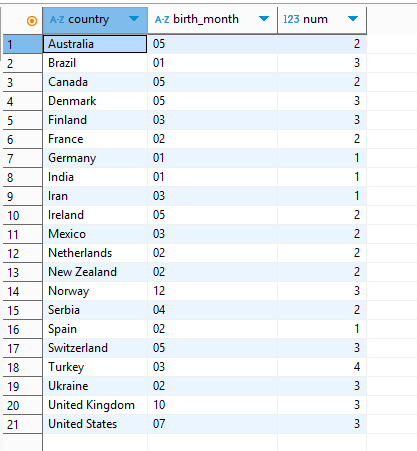
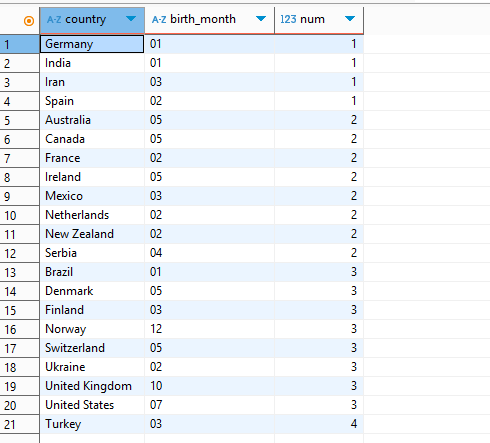
update sql result images

diff --git a/five_sql_queries_python_script.py b/five_sql_queries_python_script.py
@@ -82,7 +82,8 @@ SELECT
 	num_distinct_first_names.num_dist_first_names,
 	COUNT(DISTINCT num_distinct_first_names.state) AS states_num
 FROM num_distinct_first_names
-GROUP BY num_distinct_first_names.num_dist_first_names;
+GROUP BY num_distinct_first_names.num_dist_first_names
+ORDER BY num_distinct_first_names.num_dist_first_names;
 """
 second_result_df = pd.read_sql_query(second_query, con)
 print(second_result_df)
@@ -141,7 +142,8 @@ SELECT
 	strftime('%m', add_rank_cte.birth_date) as birth_month,
 	add_rank_cte.num
 FROM add_rank add_rank_cte
-WHERE rank_num = 1;
+WHERE rank_num = 1
+ORDER BY add_rank_cte.num;
 """
 fourth_result_df = pd.read_sql_query(fourth_query, con)
 print(fourth_result_df)
